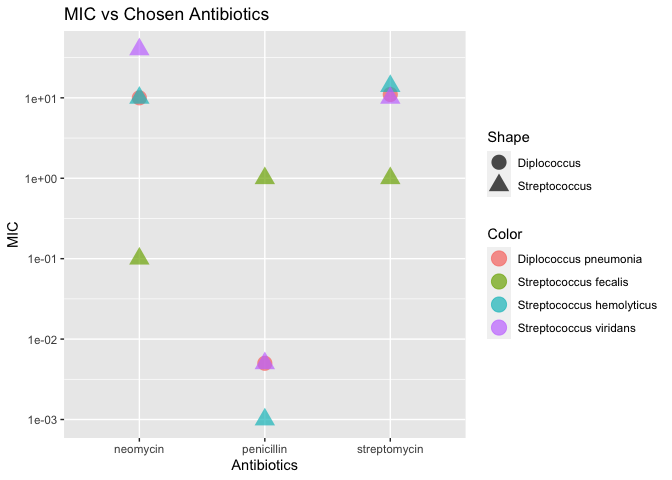
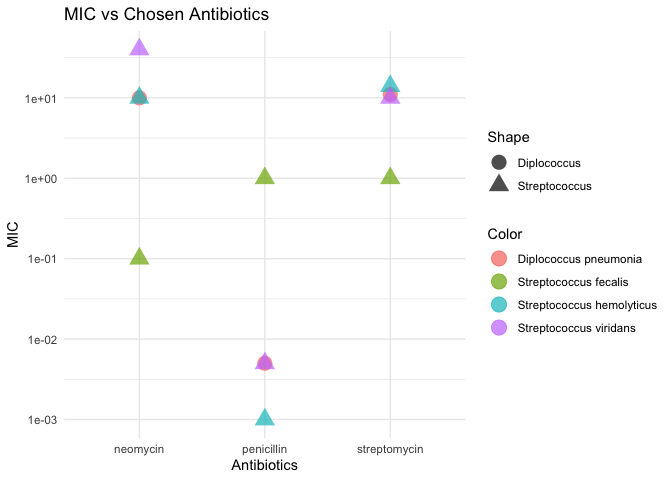
Revise challenge 5

diff --git a/challenges/c05-antibiotics-assignment.md b/challenges/c05-antibiotics-assignment.md
@@ -162,8 +162,9 @@ df_antibiotics %>%
     values_to = "MIC"
     ) %>% 
   ggplot() +
-  geom_point(
-    aes(bacteria, MIC, color = antibiotics)
+  geom_col(
+    aes(fct_reorder(bacteria, MIC), MIC, fill = antibiotics),
+    position = "dodge"
   ) +
   geom_hline(yintercept = 0.1, linetype = 'dashed', color = 'orange') +
   annotate(
@@ -175,7 +176,8 @@ df_antibiotics %>%
     fill = "red",
     alpha = .1
     ) +
-  scale_y_log10(breaks = c(0, 0.01, 0.1, 1, 10, 100, 1000)) +
+  scale_y_log10(breaks = c(0.001, 0.01, 0.1, 1, 10, 100, 1000)) +
+  theme_minimal() +
   theme(axis.text.x = element_text(angle = 60, vjust = 1, hjust=1, face='italic')) +
   labs(
     color = "Antibiotics",
@@ -185,8 +187,6 @@ df_antibiotics %>%
   scale_color_discrete(name = "Antibiotics", labels = c("Neomycin", "Penicillin", "Streptomycin")) + 
   facet_wrap(gram ~., scales="free_x")
 ```
-
-    ## Warning: Transformation introduced infinite values in continuous y-axis
 
 ![](c05-antibiotics-assignment_files/figure-gfm/q1.1-1.png)<!-- -->
 
@@ -209,6 +209,7 @@ df_antibiotics %>%
   mutate(human_test = MIC <= 0.1) %>% 
   ggplot() + 
   geom_point(aes(bacteria, antibiotics, color = human_test, size = log(MIC))) + 
+  theme_minimal() +
   theme(axis.text.x = element_text(angle = 60, vjust = 1, hjust=1, face='italic')) +
   labs(
     color = "Human Test",
@@ -253,6 +254,27 @@ df_antibiotics %>%
 
 ![](c05-antibiotics-assignment_files/figure-gfm/q1.3-1.png)<!-- -->
 
+``` r
+df_antibiotics %>% 
+  pivot_longer(
+    cols = -c(bacteria, gram), 
+    names_to = "antibiotics",
+    values_to = "MIC"
+    ) %>% 
+  ggplot() +
+  geom_density(aes(MIC, fill = antibiotics), alpha = 0.7, color = NA) + 
+  geom_vline(xintercept = 0.1, linetype = 'dashed', color = 'orange') +
+  geom_label(aes(x = 0.1, y = 0.4, label = "Threshold MIC\nfor human testing"), size = 3) +
+  scale_x_log10() +
+  theme_minimal() +
+  labs(
+    y = "Density",
+    title = "Density of MIC by Antibiotics"
+    ) 
+```
+
+![](c05-antibiotics-assignment_files/figure-gfm/q1.3.1-1.png)<!-- -->
+
 #### Visual 4 (Some variables)
 
 In this visual you may show a *subset* of the variables (`penicillin`,
@@ -279,7 +301,8 @@ df_antibiotics %>%
     color = "Color",
     x = "Antibiotics",
     title = "MIC vs Chosen Antibiotics"
-  )
+  ) +
+  theme_minimal()
 ```
 
 ![](c05-antibiotics-assignment_files/figure-gfm/q1.4-1.png)<!-- -->
@@ -305,6 +328,7 @@ df_antibiotics %>%
   ggplot(aes(x = bacteria)) +
   geom_point(aes(y = mean, color = gram)) + 
   facet_grid(.~ gram, scale = 'free_x') +
+  theme_minimal() + 
   theme(axis.text.x = element_text(angle = 60, vjust = 1, hjust=1, face='italic')) +
   scale_y_log10(breaks = c(0, 0.1, 10, 1000)) +
   labs(
@@ -314,9 +338,6 @@ df_antibiotics %>%
     title = "Mean MIC vs Bacteria"
     )
 ```
-
-    ## `summarise()` has grouped output by 'bacteria'. You can override using the
-    ## `.groups` argument.
 
 ![](c05-antibiotics-assignment_files/figure-gfm/q1.5-1.png)<!-- -->
 
@@ -346,8 +367,8 @@ opportunity to think about why this is.**
     bacteria. Streptomycin is generally more effective for Gram-positive
     bacteria compared to Gram-negative. Neomycin has equal number of
     bacteria for which it passes the limit for the human-testable
-    effectiveness, but the effectiveness is much greater for
-    Gram-positive bacteria.
+    effectiveness as Streptomycin, but the effectiveness is much greater
+    for Gram-positive bacteria.
 - Which of your visuals above (1 through 5) is **most effective** at
   helping to answer this question?
   - Visual 3 was the most helpful.
